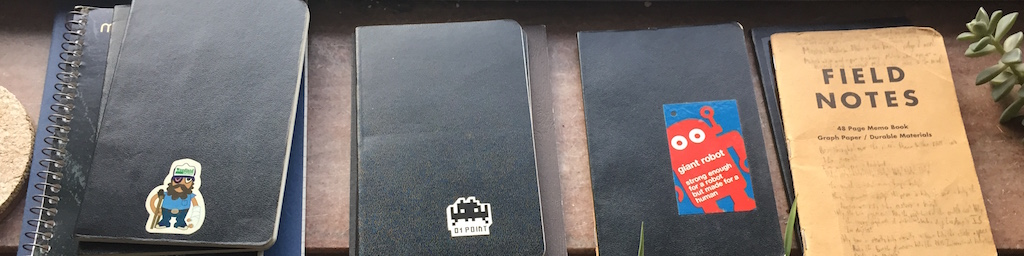
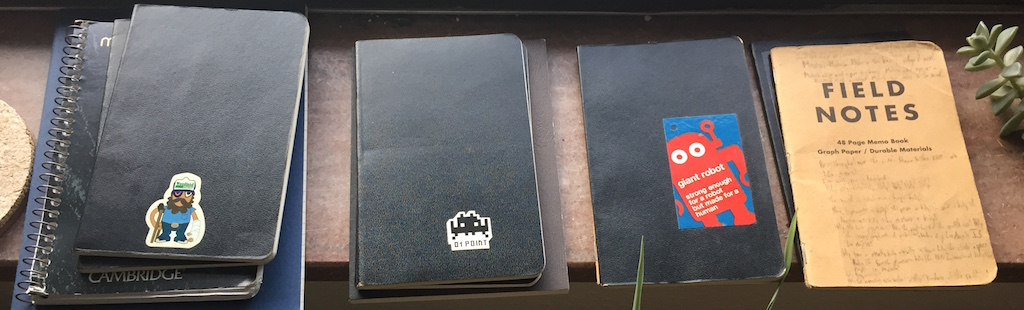
Make header image slightly taller. Add MJ reference to introduction post.

diff --git a/_site/2016/introduction/index.html b/_site/2016/introduction/index.html
@@ -6,17 +6,13 @@
 <head>
 <meta charset="utf-8">
 <title>Introduction &#8211; Ryan P. Randall ∴ Research Notebook</title>
-<meta name="description" content="Here’s the beginning of an attempt at an open humanities research notebook. I’ve realized that for posts on my regular site / blog I feel a need to wrap things up tidily, so I wanted a different space to corral things that are more in-process. I may go back and cherry-pick the reading posts from my “Info Fluxus” blog and add them here retrospectively…we’ll see.
-
-">
+<meta name="description" content="Wanna be startin' somethin'. Got to be startin' somethin'. (…but in a good way.)">
 <meta name="keywords" content="meta">
 
 
 <!-- Twitter Cards -->
 <meta name="twitter:title" content="Introduction">
-<meta name="twitter:description" content="Here’s the beginning of an attempt at an open humanities research notebook. I’ve realized that for posts on my regular site / blog I feel a need to wrap things up tidily, so I wanted a different space to corral things that are more in-process. I may go back and cherry-pick the reading posts from my “Info Fluxus” blog and add them here retrospectively…we’ll see.
-
-">
+<meta name="twitter:description" content="Wanna be startin' somethin'. Got to be startin' somethin'. (…but in a good way.)">
 <meta name="twitter:site" content="@foureyedsoul">
 <meta name="twitter:creator" content="@foureyedsoul">
 
@@ -27,9 +23,7 @@
 <meta property="og:locale" content="en_US">
 <meta property="og:type" content="article">
 <meta property="og:title" content="Introduction">
-<meta property="og:description" content="Here’s the beginning of an attempt at an open humanities research notebook. I’ve realized that for posts on my regular site / blog I feel a need to wrap things up tidily, so I wanted a different space to corral things that are more in-process. I may go back and cherry-pick the reading posts from my “Info Fluxus” blog and add them here retrospectively…we’ll see.
-
-">
+<meta property="og:description" content="Wanna be startin' somethin'. Got to be startin' somethin'. (…but in a good way.)">
 <meta property="og:url" content="http://ryan-p-randall.github.io/research-notebook/2016/introduction/">
 <meta property="og:site_name" content="Ryan P. Randall ∴ Research Notebook">
 
@@ -162,9 +156,22 @@
       
     </div><!--/ .headline-wrap -->
     <div class="article-wrap">
-      <p>Here’s the beginning of an attempt at an open humanities research notebook. I’ve realized that for posts on <a href="http://www.ryanpatrickrandall.com">my regular site / blog</a> I feel a need to wrap things up tidily, so I wanted a different space to corral things that are more in-process. I may go back and cherry-pick the reading posts from my “Info Fluxus” blog and add them here retrospectively…we’ll see.</p>
+      <p>Just like with <a href="http://www.ryanpatrickrandall.com">my main site</a>, I’ll start this off with a song:<sup id="fnref:mj"><a href="#fn:mj" class="footnote">1</a></sup></p>
+
+<iframe width="420" height="315" src="https://www.youtube.com/embed/4Uj3zitETs4" frameborder="0" allowfullscreen=""></iframe>
+
+<p><br /></p>
+
+<p>Here’s the beginning of an attempt at an <a href="http://ryan-p-randall.github.io/research-notebook/about">open humanities research notebook</a>. I’ve realized that for posts on <a href="http://www.ryanpatrickrandall.com">my regular site / blog</a> I feel a need to wrap things up tidily, so I wanted a different space to corral things that are more in-process. I may go back and cherry-pick the reading posts from my “Info Fluxus” blog and add them here retrospectively…we’ll see.</p>
 
 <p>As librarians—and more fundamentally, as thinkers—it would probably behoove us to show the process of thoughts as they grow and evolve. So here’s a humble attempt to do that more openly. I hope you’ll consider doing something similar.</p>
+<div class="footnotes">
+  <ol>
+    <li id="fn:mj">
+      <p>The more I think about it, the more I like the tension between Michael Jackson’s lyrics and the optimism of starting a new site. Research and making often has an element of tension for me, an edge I can hear some of in this song’s post-disco / anxious trouble funk groove. <a href="#fnref:mj" class="reversefootnote">&#8617;</a></p>
+    </li>
+  </ol>
+</div>
 
       <hr />
       <footer role="contentinfo">

diff --git a/_site/about/index.html b/_site/about/index.html
@@ -5,13 +5,13 @@
 <!--[if gt IE 8]><!--> <html class="no-js" lang="en"><!--<![endif]-->
 <head>
 <meta charset="utf-8">
-<title>About this Notebook &#8211; Ryan P. Randall ∴ Research Notebook</title>
+<title>Ryan P. Randall ∴ Research Notebook</title>
 
 <meta name="keywords" content="about">
 
 
 <!-- Twitter Cards -->
-<meta name="twitter:title" content="About this Notebook">
+<meta name="twitter:title" content="Ryan P. Randall ∴ Research Notebook">
 
 <meta name="twitter:site" content="@foureyedsoul">
 <meta name="twitter:creator" content="@foureyedsoul">
@@ -22,7 +22,7 @@
 <!-- Open Graph -->
 <meta property="og:locale" content="en_US">
 <meta property="og:type" content="article">
-<meta property="og:title" content="About this Notebook">
+<meta property="og:title" content="Ryan P. Randall ∴ Research Notebook">
 
 <meta property="og:url" content="http://ryan-p-randall.github.io/research-notebook/about/">
 <meta property="og:site_name" content="Ryan P. Randall ∴ Research Notebook">
@@ -108,7 +108,7 @@
     
       "http://ryan-p-randall.github.io/research-notebook/images/pocket-notebooks.jpg"
     
-  alt="About this Notebook feature image">
+  alt=" feature image">
   
   </div><!-- /.image-wrap -->
 
@@ -150,13 +150,13 @@
 
   </div>
   <article>
-    <h1>About this Notebook</h1>
+    <h1></h1>
     <div class="article-wrap">
       <h1>About this Notebook</h1>
 
 <p>This notebook is an attempt to make the humanities research process more open. I'm following the lead of notebooks by people like <a href="http://notebook.jasonheppler.org/notebook/">Jason Heppler</a>, <a href="http://wiki.wcaleb.rice.edu">W. Caleb McDaniel</a>, <a href="http://notebook.madsenlab.org/labnotebook.html">Mark Madsen</a>, <a href="https://electricarchaeology.ca/2015/10/06/an-elegant-open-notebook/">Shawn Graham</a>, and from the sciences, <a href="http://www.carlboettiger.info/lab-notebook.html">Carl Boettiger</a>.</p>
 
-<p>In general, as an instruction librarian who has researched a range of interdisciplinary subjects and taught composition courses, I feel that it'd behoove all of us (as we alternate wearing the hats of scholars, students, researchers, enthusiasts, makers, writers, etc.) to be more open about processes. I've long claimed that libraries have served as the intellectual "maker space" of academies, and this is one way to demonstrate that "maker" process clearly.</p>
+<p>As an instruction librarian who has researched a range of interdisciplinary subjects and taught composition courses, I feel that it'd benefit all of us—as we move between and blur the roles of enthusiasts, scholars, students, researchers, makers, writers, etc.—to be more open about processes. I've long claimed that libraries are the intellectual "maker space" of academies. An open research notebook like this is one way to perform that "maker" process clearly.</p>
 
 <p>If you've arrived here looking for my regular website: thanks and welcome! That site lives <a href="http://www.ryanpatrickrandall.com">over here</a>.</p>
 

diff --git a/_site/index.html b/_site/index.html
@@ -159,7 +159,7 @@
 
 <p>This notebook is an attempt to make the humanities research process more open. I'm following the lead of notebooks by people like <a href="http://notebook.jasonheppler.org/notebook/">Jason Heppler</a>, <a href="http://wiki.wcaleb.rice.edu">W. Caleb McDaniel</a>, <a href="http://notebook.madsenlab.org/labnotebook.html">Mark Madsen</a>, <a href="https://electricarchaeology.ca/2015/10/06/an-elegant-open-notebook/">Shawn Graham</a>, and from the sciences, <a href="http://www.carlboettiger.info/lab-notebook.html">Carl Boettiger</a>.</p>
 
-<p>In general, as an instruction librarian who has researched a range of interdisciplinary subjects and taught composition courses, I feel that it'd behoove all of us (as we alternate wearing the hats of scholars, students, researchers, enthusiasts, makers, writers, etc.) to be more open about processes. I've long claimed that libraries have served as the intellectual "maker space" of academies, and this is one way to demonstrate that "maker" process clearly.</p>  
+<p>As an instruction librarian who has researched a range of interdisciplinary subjects and taught composition courses, I feel that it'd benefit all of us—as we move between and blur the roles of enthusiasts, scholars, students, researchers, makers, writers, etc.—to be more open about processes. I've long claimed that libraries are the intellectual "maker space" of academies. An open research notebook like this is one way to perform that "maker" process clearly.</p>  
 
 <p>If you've arrived here looking for my regular website: thanks and welcome! That site lives <a href="http://www.ryanpatrickrandall.com">over here</a>.</p>
 
@@ -173,7 +173,8 @@
   <article>
     
       <h2><a href="http://ryan-p-randall.github.io/research-notebook/2016/introduction/" title="Introduction">Introduction</a></h2>
-      <p>Here’s the beginning of an attempt at an open humanities research notebook. I’ve realized that for posts on my regular site / blog I feel a need to wrap things up tidily, so I wanted a different space to corral thi...
+      <p>Wanna be startin’ somethin’. Got to be startin’ somethin’. (…but in a good way.)</p>
+
     
   </article>
   

diff --git a/_includes/_about-notebook.html b/_includes/_about-notebook.html
@@ -2,7 +2,7 @@
 
 <p>This notebook is an attempt to make the humanities research process more open. I'm following the lead of notebooks by people like <a href="http://notebook.jasonheppler.org/notebook/">Jason Heppler</a>, <a href="http://wiki.wcaleb.rice.edu">W. Caleb McDaniel</a>, <a href="http://notebook.madsenlab.org/labnotebook.html">Mark Madsen</a>, <a href="https://electricarchaeology.ca/2015/10/06/an-elegant-open-notebook/">Shawn Graham</a>, and from the sciences, <a href="http://www.carlboettiger.info/lab-notebook.html">Carl Boettiger</a>.</p>
 
-<p>In general, as an instruction librarian who has researched a range of interdisciplinary subjects and taught composition courses, I feel that it'd behoove all of us (as we alternate wearing the hats of scholars, students, researchers, enthusiasts, makers, writers, etc.) to be more open about processes. I've long claimed that libraries have served as the intellectual "maker space" of academies, and this is one way to demonstrate that "maker" process clearly.</p>  
+<p>As an instruction librarian who has researched a range of interdisciplinary subjects and taught composition courses, I feel that it'd benefit all of us—as we move between and blur the roles of enthusiasts, scholars, students, researchers, makers, writers, etc.—to be more open about processes. I've long claimed that libraries are the intellectual "maker space" of academies. An open research notebook like this is one way to perform that "maker" process clearly.</p>  
 
 <p>If you've arrived here looking for my regular website: thanks and welcome! That site lives <a href="http://www.ryanpatrickrandall.com">over here</a>.</p>
 

diff --git a/_site/tags/index.html b/_site/tags/index.html
@@ -155,11 +155,11 @@
 <ul class="post-list">
   
     <li><a href="http://ryan-p-randall.github.io/research-notebook/2016/introduction/">Introduction<span class="entry-date"> &there4; <time datetime="2016-04-30T13:46:21-06:00">April 30, 2016</time></span></a></li>
-    <p><p>Here’s the beginning of an attempt at an open humanities research notebook. I’ve realized that for posts on my regular site / blog I feel a need to wrap things up tidily, so I wanted a different space to corral thi...</p>
+    <p><p>Wanna be startin’ somethin’. Got to be startin’ somethin’. (…but in a good way.)</p>
+</p>
   
-  
+  </ul>
 
-</p></ul>
 
       
     </div><!-- /.article-wrap -->

diff --git a/_site/posts/index.html b/_site/posts/index.html
@@ -159,7 +159,8 @@
     <article>
       
         <h2><a href="http://ryan-p-randall.github.io/research-notebook/2016/introduction/" title="Introduction">Introduction</a></h2>
-        <p>Here’s the beginning of an attempt at an open humanities research notebook. I’ve realized that for posts on my regular site / blog I feel a need to wrap things up tidily, so I wanted a different space to corral thi...
+        <p>Wanna be startin’ somethin’. Got to be startin’ somethin’. (…but in a good way.)</p>
+
       
     </article>
     

diff --git a/_posts/2016-04-30-introduction.md b/_posts/2016-04-30-introduction.md
@@ -3,7 +3,7 @@ layout: post
 title: Introduction
 modified:
 categories: 
-excerpt:
+excerpt: Wanna be startin' somethin'. Got to be startin' somethin'. (…but in a good way.)
 tags: [meta]
 image:
    feature: pocket-notebooks.jpg
@@ -11,7 +11,15 @@ image:
 published: true
 date: 2016-04-30T13:46:21-06:00
 ---
-  
-Here's the beginning of an attempt at an open humanities research notebook. I've realized that for posts on [my regular site / blog](http://www.ryanpatrickrandall.com) I feel a need to wrap things up tidily, so I wanted a different space to corral things that are more in-process. I may go back and cherry-pick the reading posts from my "Info Fluxus" blog and add them here retrospectively…we'll see.  
+
+Just like with [my main site](http://www.ryanpatrickrandall.com), I'll start this off with a song:[^mj]    
+
+[^mj]: The more I think about it, the more I like the tension between Michael Jackson's lyrics and the optimism of starting a new site. Research and making often has an element of tension for me, an edge I can hear some of in this song's post-disco / anxious trouble funk groove.    
+
+<iframe width="420" height="315" src="https://www.youtube.com/embed/4Uj3zitETs4" frameborder="0" allowfullscreen></iframe>
+
+<br>
+
+Here's the beginning of an attempt at an [open humanities research notebook]({{site:url}}/about). I've realized that for posts on [my regular site / blog](http://www.ryanpatrickrandall.com) I feel a need to wrap things up tidily, so I wanted a different space to corral things that are more in-process. I may go back and cherry-pick the reading posts from my "Info Fluxus" blog and add them here retrospectively…we'll see.  
 
 As librarians—and more fundamentally, as thinkers—it would probably behoove us to show the process of thoughts as they grow and evolve. So here's a humble attempt to do that more openly. I hope you'll consider doing something similar.  

diff --git a/about.md b/about.md
@@ -1,7 +1,7 @@
 ---
 layout: page
 permalink: /about/
-title: "About this Notebook"
+title: 
 tagline: Ryan P. Randall
 tags: [about]
 modified: 2015-03-21
